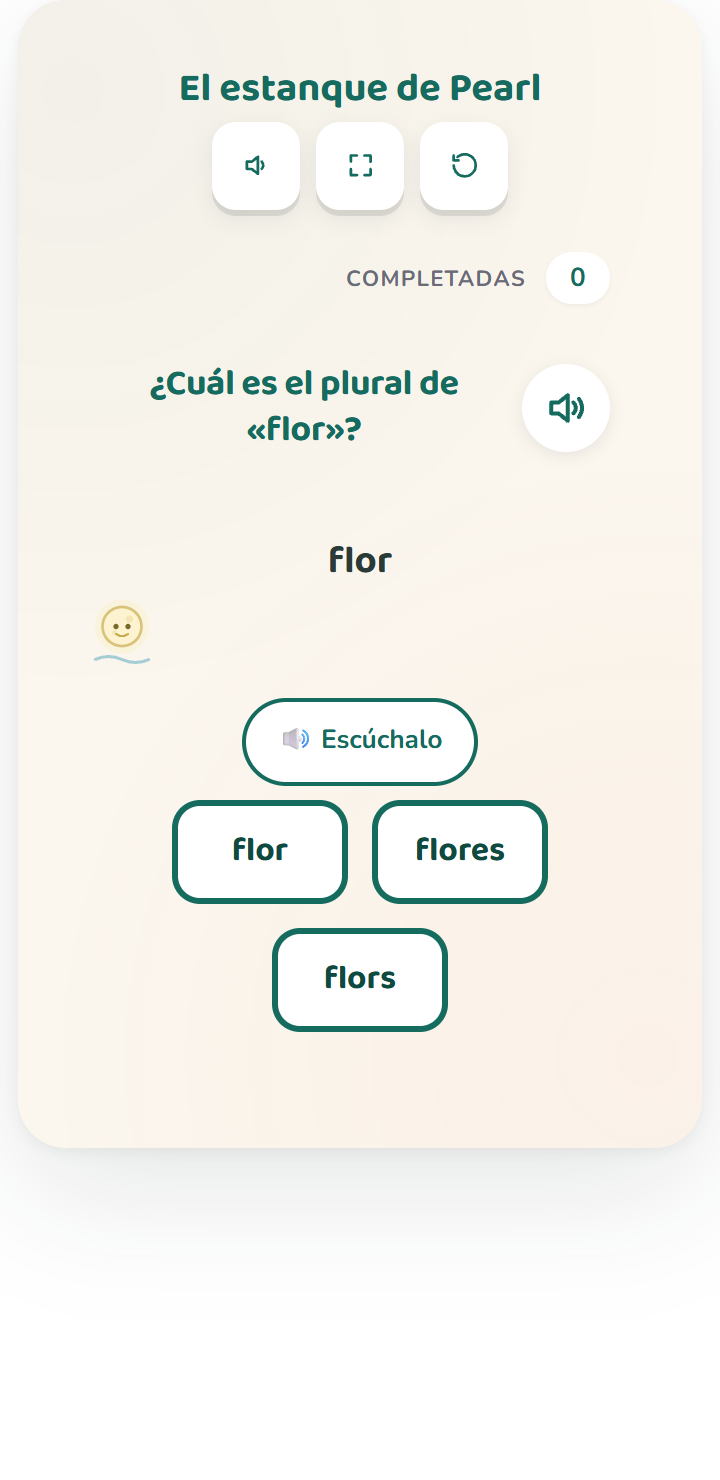
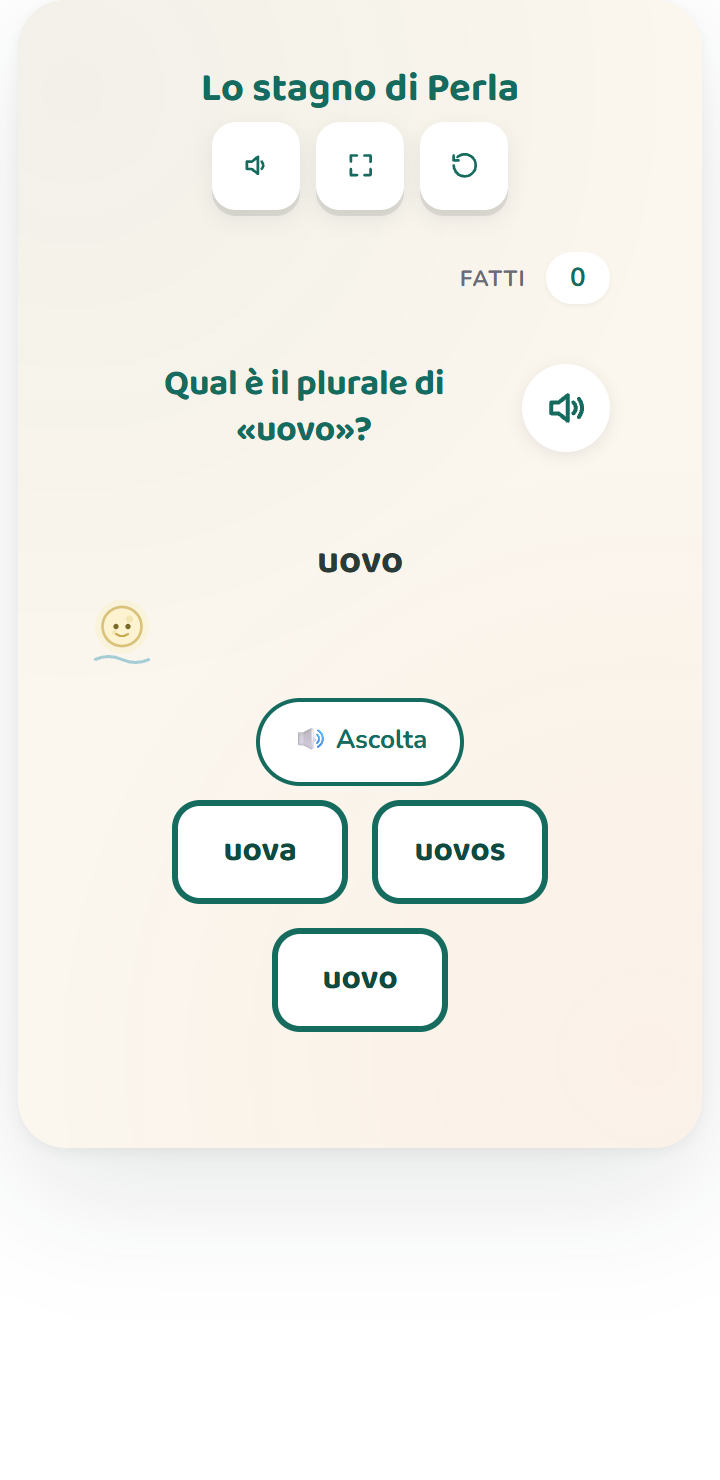
[FEATURE][I18N][IT] plural irregular #20 — first it literacy + Language strand «Riflessione linguistica»
Italian (it) second-batch fan-out activity #20 — plural.irregular.l-2-1-b,
THE FIRST it literacy activity. Rebuilt (not translated) for the Indicazioni
nazionali: «Lo stagno di Perla», the child taps the correct plural of 9 Italian
plurali particolari (uovo/uova, braccio/braccia, dito/dita, paio/paia, uomo/uomini,
mano/mani + the velar h-rule amico/amici, lago/laghi, amica/amiche). All 9 are
vowel-change (replace(from,to)===plural, first-occurrence-safe, 3-distinct chips).

The core's hard-coded +"s" distractor is reframed as the FOREIGN (English/Spanish)
plural an Italian kid meets — winNote/nudges teach «in italiano il plurale non si fa
con la -s: cambia in modo speciale» (a genuine classe-2 concept). Grade = classe
seconda (auto; plurali particolari + h-rule are classe-2 per Indicazioni).

⭐ Registers strand-names.ts Language.it = «Riflessione linguistica» (Indicazioni
area "Elementi di grammatica esplicita e riflessione sugli usi della lingua") —
reused by every future it Language/grammar activity; no per-activity STRAND_OVERRIDE.

Activity-layer only: 0 lines to plural-core.js / lcs-shell.* / Direction-A CSS.
Local build — NO deploy (whole it set deploys in one batch at the end).
Verified: verify-activity-content-it (80 activities, 0 issues), preflight PASS,
tsc no new errors, visual-qa it+en 54/54 green, personal Read of uovo/amico/lago
renders (desktop+phone), 0 EN-leak, no «qual'è».

diff --git a/mini tools/plural-activity.js b/mini tools/plural-activity.js
@@ -59,6 +59,18 @@
       nChange: '“{sing}” é uma palavra especial — ela muda, e não é só juntar um s. Olhe de novo!',
       nNoChange: '“{sing}” fica IGUAL para muitas — não junte um s! Olhe de novo!',
       srMirror: '{q} A palavra é {sing}. Opções: {chips}.'
+    },
+    /* it (Indicazioni nazionali, classe seconda; strand «Language» → «Riflessione linguistica» via strand-names.ts):
+       mascot «Perla» (localize «Pearl», fr/pt precedent). ⚠ THE +s FRAMING: Italian NEVER forms plurals with -s,
+       so the hard-coded +s chip is the FOREIGN plural (amicos) — the nudge/win reframe it «in italiano il plurale
+       non si fa con la -s: cambia in modo speciale». Quotes = «...» caporali. ⚠ «Qual è» NEVER «qual'è». */
+    it: {
+      q: '{q}',
+      win: 'Sì! {note}', winNote: 'In italiano il plurale non si fa con la -s: cambia in modo speciale!',
+      hear: '🔊 Ascolta',
+      nChange: '«{sing}» è una parola speciale: cambia, e in italiano non si aggiunge la -s! Guarda di nuovo!',
+      nNoChange: '«{sing}» resta uguale per tanti: non aggiungere la -s! Guarda di nuovo!',
+      srMirror: '{q} La parola è «{sing}». Scelte: {chips}.'
     }
   };
   function txt(k, a) { var s = (L[LANG] && L[LANG][k]) || L.en[k] || k; return String(s).replace(/\{(\w+)\}/g, function (m, key) { return (a && key in a) ? a[key] : m; }); }
@@ -79,9 +91,9 @@
   var PluralActivity = {
     id: 'plural-activity',
     strings: {
-      title: { en: 'The Doubling Pond', de: 'Pearls Mehrzahl-Teich', fr: 'L’étang de Perle : les pluriels', es: 'El estanque de Pearl', pt: 'O Lago da Pérola' },
-      instruction: { en: 'Pick the right plural — the special word, not the lazy +s!', de: 'Tippe die richtige Mehrzahl – das besondere Wort mit Umlaut, nicht einfach mit -s!', fr: 'Touche le bon pluriel — la forme spéciale, pas seulement un -s !', es: 'Elige el plural correcto: la palabra especial, ¡no siempre basta con -s!', pt: 'Escolha o plural certo — a palavra especial, não é só juntar um s!' },
-      q: { en: '{q}', de: '{q}', fr: '{q}', pt: '{q}' }
+      title: { en: 'The Doubling Pond', de: 'Pearls Mehrzahl-Teich', fr: 'L’étang de Perle : les pluriels', es: 'El estanque de Pearl', pt: 'O Lago da Pérola', it: 'Lo stagno di Perla' },
+      instruction: { en: 'Pick the right plural — the special word, not the lazy +s!', de: 'Tippe die richtige Mehrzahl – das besondere Wort mit Umlaut, nicht einfach mit -s!', fr: 'Touche le bon pluriel — la forme spéciale, pas seulement un -s !', es: 'Elige el plural correcto: la palabra especial, ¡no siempre basta con -s!', pt: 'Escolha o plural certo — a palavra especial, não é só juntar um s!', it: 'Scegli il plurale giusto: la parola cambia in modo speciale, non con la -s!' },
+      q: { en: '{q}', de: '{q}', fr: '{q}', pt: '{q}', it: '{q}' }
     },
 
     init: function (api) {
@@ -193,7 +205,7 @@
       /* Hear it */
       var self = this, hear = el('button', 'pl-hear'); hear.type = 'button'; hear.textContent = txt('hear');
       hear.addEventListener('click', function () {
-        var t = LANG === 'de' ? ('Mehr als ein ‚' + round.singular + '‘. Welche Mehrzahl ist richtig?') : LANG === 'fr' ? ('Plus d’un « ' + round.singular + ' ». Quel est le bon pluriel ?') : LANG === 'es' ? ('«' + round.singular + '» en plural. ¿Cuál es el correcto?') : LANG === 'pt' ? ('Mais de um “' + round.singular + '”. Qual é o plural certo?') : ('More than one ' + round.singular + '. Which one is right?');
+        var t = LANG === 'de' ? ('Mehr als ein ‚' + round.singular + '‘. Welche Mehrzahl ist richtig?') : LANG === 'fr' ? ('Plus d’un « ' + round.singular + ' ». Quel est le bon pluriel ?') : LANG === 'es' ? ('«' + round.singular + '» en plural. ¿Cuál es el correcto?') : LANG === 'pt' ? ('Mais de um “' + round.singular + '”. Qual é o plural certo?') : LANG === 'it' ? ('Il plurale di «' + round.singular + '». Qual è quello giusto?') : ('More than one ' + round.singular + '. Which one is right?');
         if (global.LCSAudio && global.LCSAudio.speak) { try { global.LCSAudio.speak({ type: 'ui', text: t, lang: (LANG === 'es' ? 'es-MX' : LANG === 'pt' ? 'pt-BR' : LANG), rate: 0.92 }); } catch (e) { } }
       });
       root.appendChild(hear);

diff --git a/frontend/lib/seo/strand-names.ts b/frontend/lib/seo/strand-names.ts
@@ -175,6 +175,7 @@ export const STRAND_NAMES: Record<string, Partial<Record<string, string>>> = {
     nl: 'Taal', // SLO-kerndoelen leergebied Nederlands/taal (nl literacy fan-out)
     fi: 'Kielen rakenteet ja oikeinkirjoitus', // OPS 2014 äidinkieli: language structures & spelling
     pt: 'Análise linguística/semiótica', // BNCC Língua Portuguesa eixo (morfologia/ortografia — flexão de número); pt literacy fan-out — reused by every future pt Language activity
+    it: 'Riflessione linguistica', // Indicazioni nazionali area "Elementi di grammatica esplicita e riflessione sugli usi della lingua"; it literacy fan-out — reused by every future it Language/grammar activity
   },
   'Vocabulary Acquisition and Use': {
     en: 'Vocabulary Acquisition and Use',

diff --git a/frontend/app/[locale]/activities/[slug]/page.tsx b/frontend/app/[locale]/activities/[slug]/page.tsx
@@ -547,7 +547,7 @@ export default async function ActivityPage({ params }: { params: PageParams }) {
   // applied here to the iframe-loaded wrapper URL (the only un-busted
   // link in the activity-page → mini-tool chain). The wrapper reads
   // only `activity` / `lang` / `embed` params; `v` is harmless to it.
-  const ACTIVITY_WRAPPER_VERSION = '9.472';
+  const ACTIVITY_WRAPPER_VERSION = '9.473';
 
   const iframeSrc =
     `/mini-tools/${row.tool}.html?v=${ACTIVITY_WRAPPER_VERSION}` +

diff --git a/mini tools/plural-activity.html b/mini tools/plural-activity.html
@@ -17,7 +17,7 @@
        NOTE: bump ?v=N on EVERY change to plural-activity.js / -core.js (§A.13.42). -->
   <script src="/mini-tools/lcs-shell.js?v=5"></script>
   <script src="/mini-tools/plural-core.js?v=1"></script>
-  <script src="/mini-tools/plural-activity.js?v=5"></script>
+  <script src="/mini-tools/plural-activity.js?v=6"></script>
   <script>
     LCS.mount(PluralActivity, { mount: '#lcs-root' });
   </script>
